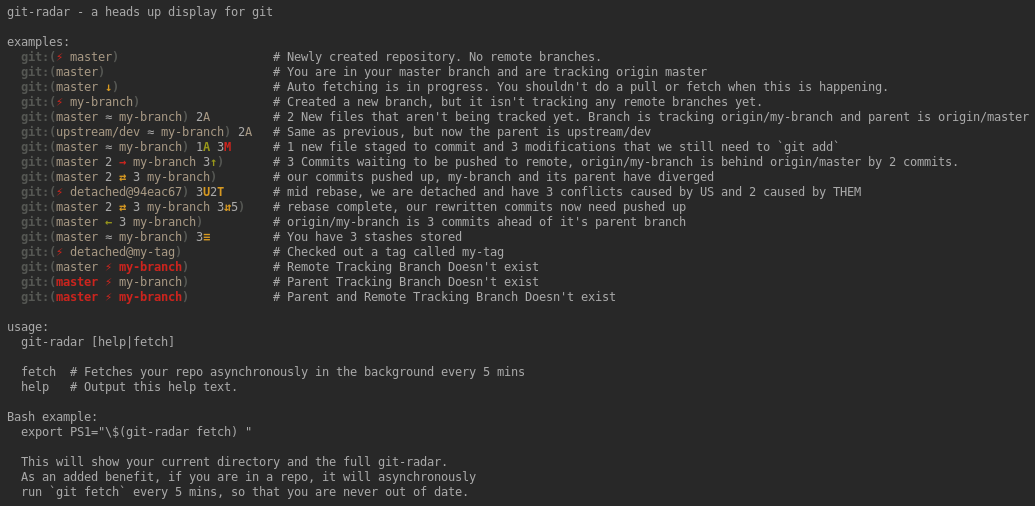
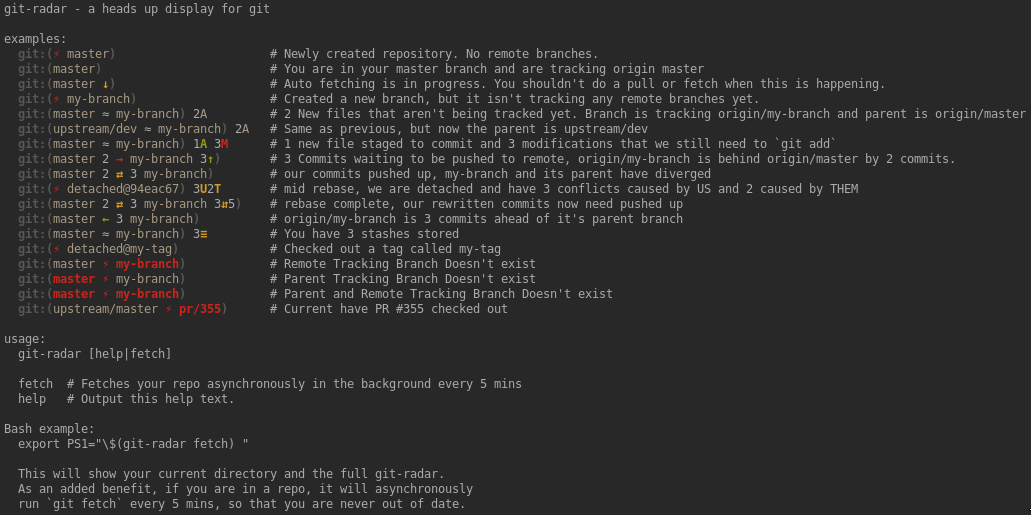
Added some support for checking out PRs

Changed region(s): [[0.0, 0.0593, 0.9932, 1.0], [0.0, 0.0, 0.2793, 0.0296]]

diff --git a/tests/helpers_test.go b/tests/helpers_test.go
@@ -219,7 +219,7 @@ func TestGetFullRemote(T *testing.T) {
     }
 }
 // }}}
-// Test getFullName{{{
+// Test getPrintableRemote{{{
 func TestGetFullName(T *testing.T) {
     inputExpected := map[RemoteBranch]string {
         RemoteBranch{remote: "origin",     branch: "master"}:             "master",
@@ -235,9 +235,9 @@ func TestGetFullName(T *testing.T) {
     }
 
     for input, expected := range inputExpected {
-        output := getFullName(input);
+        output := getPrintableRemote(input);
         if (output != expected) {
-            T.Errorf("getFullName(): Got [%s], expected [%s] for input [%+v]", output, expected, input);
+            T.Errorf("getPrintableRemote(): Got [%s], expected [%s] for input [%+v]", output, expected, input);
         }
     }
 }
@@ -642,6 +642,26 @@ func TestNewGitData(T *testing.T) {
         output := newGitData(input);
         if (output != expected) {
             T.Errorf("newGitData(): Got [%+v], expected [%+v] for input [%+v]", output, expected, input);
+        }
+    }
+}
+// }}}
+// Test newIsPR{{{
+func TestIsPR(T *testing.T) {
+    inputExpected := map[string]bool {
+        "refs/pull/1/head":        true,
+        "refs/pull/12345/head":    true,
+        "efs/pull/1/head":         false,
+        "refs/pull/1/hea":         false,
+        "origin/refs/pull/1/head": false,
+        "refs/pull/a/head":        false,
+        "refs/pull//head":         false,
+    }
+
+    for input, expected := range inputExpected {
+        output := isPR(input);
+        if (output != expected) {
+            T.Errorf("isPR(): Got [%t], expected [%t] for input [%s]", output, expected, input);
         }
     }
 }

diff --git a/src/helpers.go b/src/helpers.go
@@ -36,12 +36,12 @@ func getFullRemote(remoteBranch RemoteBranch) string {
     return remoteBranch.remote + "/" + remoteBranch.branch;
 }
 
-func getFullName(remoteBranch RemoteBranch) string {
+func getPrintableRemote(remoteBranch RemoteBranch) string {
     if (remoteBranch.remote == "" || remoteBranch.branch == "") {
         return "";
     }
 
-    if (remoteBranch.remote == "origin") {
+    if (remoteBranch.remote == "origin" || remoteBranch.isPR) {
         return remoteBranch.branch;
     }
 
@@ -62,8 +62,8 @@ func insertData(str string, placeholderMap FormatData) string {
 // Given how many commits behind or ahead, return the formatted string used in
 // the prompt for remote info
 func getRemoteInfo(branches Branches, remoteBehind uint, remoteAhead uint) string {
-    var parent string = getFullName(branches.parent);
-    var remote string = getFullName(branches.remote);
+    var parent string = getPrintableRemote(branches.parent);
+    var remote string = getPrintableRemote(branches.remote);
 
     // If no remote, report the local branch as no upstream
     if (remote == "") {
@@ -417,4 +417,8 @@ func newGitData(git GitData) GitData {
     }
 
     return git;
+}
+
+func isPR(remoteFull string) bool {
+    return ezRegex("^refs/pull/[0-9]+/head$", remoteFull);
 }

diff --git a/src/git.go b/src/git.go
@@ -61,8 +61,14 @@ func getGitData() GitData {
             defer wg2.Done();
             localBranch         = getLocalBranchName();
             remoteBranch        = getRemoteBranchName(localBranch);
+
+            if (isPR(remoteBranch.branch)) {
+                remoteBranch.branch = localBranch;
+                remoteBranch.isPR = true;
+            }
+
             remoteFull          = getFullRemote(remoteBranch);
-            remoteBranch.exists = doesRemoteExist(remoteFull);
+            remoteBranch.exists = !remoteBranch.isPR && doesRemoteExist(remoteFull);
         }();
 
         go func() {
@@ -213,10 +219,8 @@ func getRemoteBranchName(localBranch string) RemoteBranch {
         return ret;
     }
 
-    // Return the remote and branch name together
     ret.remote = remote;
     ret.branch = remoteMergeBranch;
-
     return ret;
 }
 

diff --git a/src/help.go b/src/help.go
@@ -344,6 +344,25 @@ func help() string {
                 },
             })),
         },
+        {
+            description: "Current have PR #355 checked out",
+            prompt: showPrompt(newGitData(GitData{
+                branches: Branches{
+                    remote: RemoteBranch{
+                        remote: "upstream",
+                        branch: "pr/355",
+                        exists: false,
+                        isPR: true,
+                    },
+                    parent: RemoteBranch{
+                        remote: "upstream",
+                        branch: "master",
+                        exists: true,
+                    },
+                    local: "pr/355",
+                },
+            })),
+        },
     };
 
     var ret string = "\n";

diff --git a/src/data_types.go b/src/data_types.go
@@ -70,4 +70,5 @@ type RemoteBranch struct {
     remote string;
     branch string;
     exists bool;
+    isPR   bool;
 }

diff --git a/README.md b/README.md
@@ -144,6 +144,36 @@ configuration in your local gitconfig file.
 If you don't set this git config variable, it will always compare you to
 origin/master.
 
+There is another alias I have which is the same thing as `cob` above, but is
+used to checkout PRs given a PR number. It defaults to looking for a remote
+named `upstream`, then resorts to `origin`, or you can specify a specific
+remote:
+
+```bash
+copr  = "!f() { \
+    remote=\"${2:-$(git remote | /bin/grep ^upstream || echo origin)}\"; \
+    git pr $1 $remote; \
+    git config --local branch.pr/$1.git-radar-tracked-remote $remote/master; \
+  }; \
+  f"
+```
+
+Example usage:
+
+```bash
+$ git copr 100
+$ git copr 100 specific-remote
+```
+
+NOTE: This alias depends on you having `git pr` already which is from
+`git extras`.
+
+Also, PRs are not really 'supported' shall we say, by git. What I mean by this
+is that as far as git is concerned, there is no remote tracking for a PR
+checkout, and you cannot see how far ahead or behind your local checkout is to
+the PR. In practise, this is probably fine because you shouldn't be doing
+development in a PR checkout anyways. It should just be for testing a PR.
+
 ### Configuration
 
 Have a look at the `config.go.example` file for all of the configurable options.
